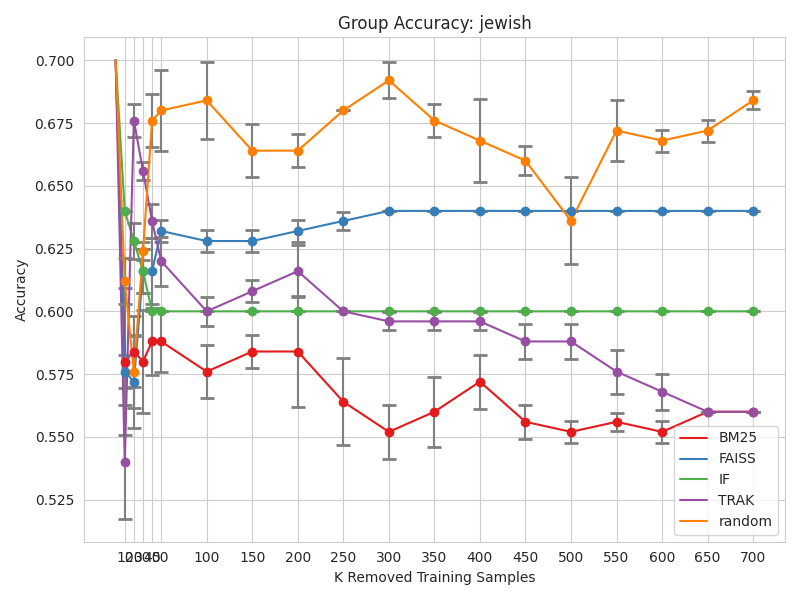
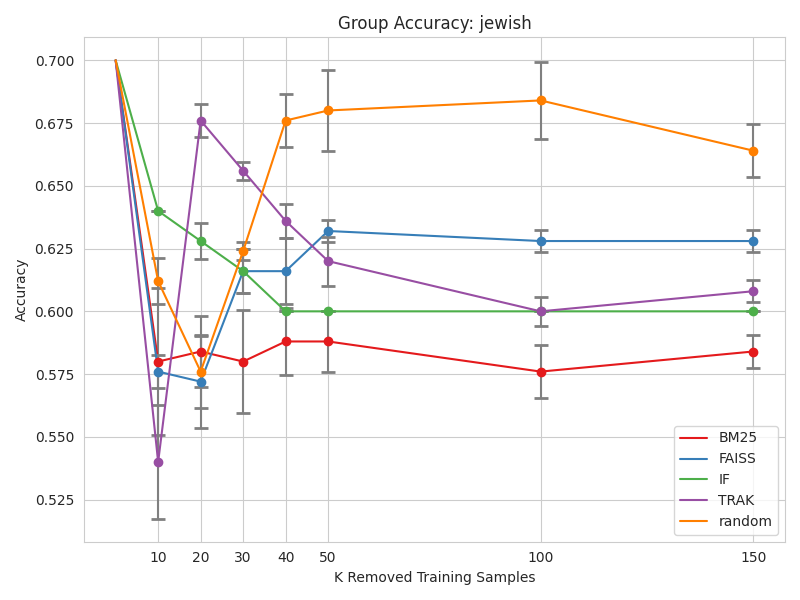
update plots

diff --git a/exp/vis_k_removed.py b/exp/vis_k_removed.py
@@ -28,10 +28,12 @@ base_model_acc = utils.compute_accuracy(base_model,test_dl)
 
 colors = sns.color_palette("Set1", n_colors=5)
 methods = ["BM25","FAISS","IF","TRAK","random"]
-ks = list(range(10,50,10)) + list(range(50,750,50))
+#ks = list(range(10,50,10)) + list(range(50,750,50))
+ks = [10,20,30,40,50,100,150]
 
 for method,color in zip(methods, colors):
     df_acc_method = pd.read_csv(f'../../output/{method}_finetuning/total_accuracy.csv')
+    df_acc_method = df_acc_method.loc[df_acc_method["k"].isin(ks)]
     plt.errorbar(df_acc_method["k"], df_acc_method["mean"], yerr=df_acc_method["std"], fmt='o', capsize=5, capthick=2, ecolor='gray', color = color)
     plt.plot([0]+df_acc_method["k"].to_list(), np.hstack([base_model_acc,df_acc_method["mean"]]), color = color, label = method)
 
@@ -49,6 +51,7 @@ data_groups = pd.DataFrame(columns=["method","k","acc","std"])
 
 for method in methods:
     df_acc_method_groups = pd.read_csv(f'../../output/{method}_finetuning/accuracy_by_groups.csv')
+    df_acc_method_groups = df_acc_method_groups.loc[df_acc_method_groups["k"].isin(ks)]
     df_acc_method_groups["method"] = method
     data_groups = pd.concat([data_groups,df_acc_method_groups],axis=0)
 
